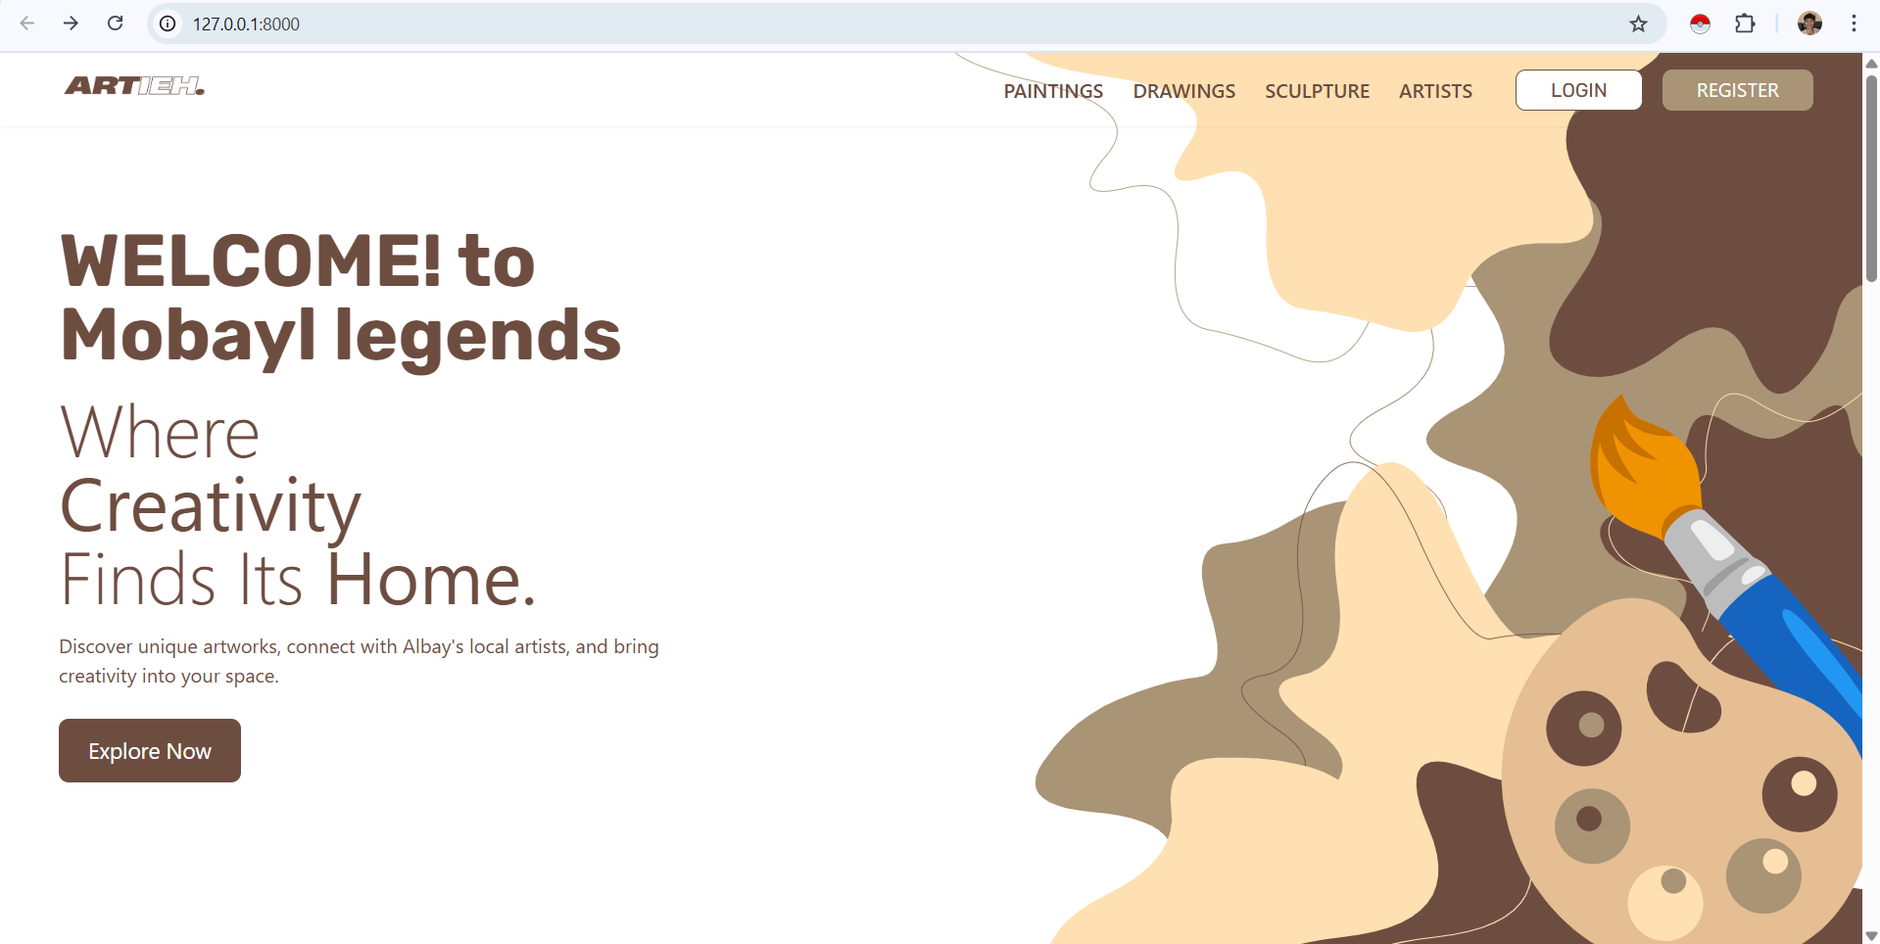
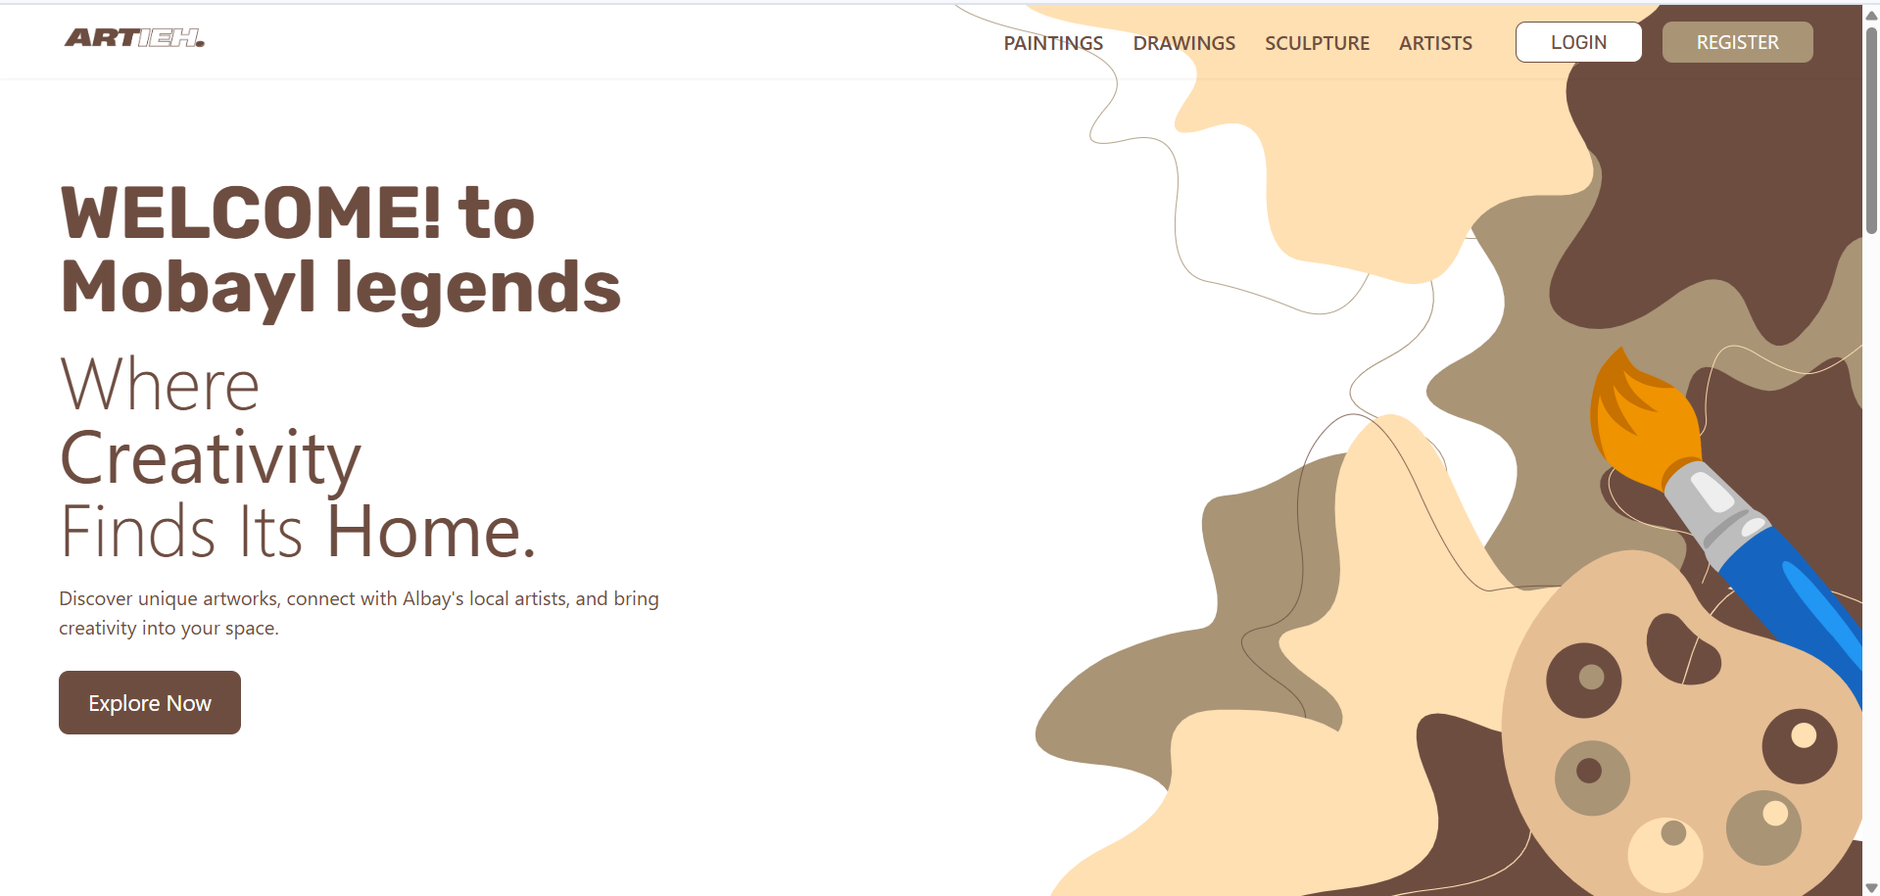
added the pictures

diff --git a/section/projects.html b/section/projects.html
@@ -65,22 +65,46 @@
         
         <!-- Main Display -->
         <div class="w-full aspect-video sm:aspect-auto h-full bg-neutral-100 dark:bg-neutral-900 border border-neutral-200 dark:border-neutral-800 overflow-hidden">
-            <img id="invta" src="../src/invta/Invta.jpg" class="w-full h-full object-cover transition-opacity duration-300" alt="Main Project View"/>
+            <img id="invta" src="../src/invta/Invta.jpg" class="w-full h-full object-contain transition-opacity duration-300" alt="Main Project View"/>
         </div>
 
         <!-- Thumbnails -->
         <div class="flex sm:flex-col gap-4 overflow-x-auto sm:overflow-y-auto h-full pb-2 sm:pb-0 pr-1 [&::-webkit-scrollbar]:hidden [-ms-overflow-style:none] [scrollbar-width:none]">
 
             <button onclick="document.getElementById('invta').src='../src/invta/Invta.jpg'" class="shrink-0 w-24 sm:w-full aspect-video border border-neutral-200 dark:border-neutral-800 hover:opacity-70 transition-opacity focus-visible:outline focus-visible:outline-2 focus-visible:outline-offset-2 focus-visible:outline-neutral-900 dark:focus-visible:outline-neutral-100 overflow-hidden">
-            <img src="../src/invta/Invta.jpg" class="w-full h-full object-cover" alt="Thumbnail 1"/>
+            <img src="../src/invta/Invta.jpg" class="w-full h-full object-contain" alt="Thumbnail 1"/>
             </button>
 
-            <button onclick="document.getElementById('invta').src='../src/invta/Invta.jpg'" class="shrink-0 w-24 sm:w-full aspect-video border border-neutral-200 dark:border-neutral-800 hover:opacity-70 transition-opacity focus-visible:outline focus-visible:outline-2 focus-visible:outline-offset-2 focus-visible:outline-neutral-900 dark:focus-visible:outline-neutral-100 overflow-hidden">
-            <img src="../src/invta/Invta.jpg" class="w-full h-full object-cover" alt="Thumbnail 2"/>
+            <button onclick="document.getElementById('invta').src='../src/invta/m1.png'" class="shrink-0 w-24 sm:w-full aspect-video border border-neutral-200 dark:border-neutral-800 hover:opacity-70 transition-opacity focus-visible:outline focus-visible:outline-2 focus-visible:outline-offset-2 focus-visible:outline-neutral-900 dark:focus-visible:outline-neutral-100 overflow-hidden">
+            <img src="../src/invta/m1.png" class="w-full h-full object-contain" alt="Thumbnail 2"/>
             </button>
 
-            <button onclick="document.getElementById('invta').src='../src/invta/Invta.jpg'" class="shrink-0 w-24 sm:w-full aspect-video border border-neutral-200 dark:border-neutral-800 hover:opacity-70 transition-opacity focus-visible:outline focus-visible:outline-2 focus-visible:outline-offset-2 focus-visible:outline-neutral-900 dark:focus-visible:outline-neutral-100 overflow-hidden">
-            <img src="../src/invta/Invta.jpg" class="w-full h-full object-cover" alt="Thumbnail 3"/>
+            <button onclick="document.getElementById('invta').src='../src/invta/m2.png'" class="shrink-0 w-24 sm:w-full aspect-video border border-neutral-200 dark:border-neutral-800 hover:opacity-70 transition-opacity focus-visible:outline focus-visible:outline-2 focus-visible:outline-offset-2 focus-visible:outline-neutral-900 dark:focus-visible:outline-neutral-100 overflow-hidden">
+            <img src="../src/invta/m2.png" class="w-full h-full object-contain" alt="Thumbnail 3"/>
+            </button>
+
+            <button onclick="document.getElementById('invta').src='../src/invta/m3.png'" class="shrink-0 w-24 sm:w-full aspect-video border border-neutral-200 dark:border-neutral-800 hover:opacity-70 transition-opacity focus-visible:outline focus-visible:outline-2 focus-visible:outline-offset-2 focus-visible:outline-neutral-900 dark:focus-visible:outline-neutral-100 overflow-hidden">
+            <img src="../src/invta/m3.png" class="w-full h-full object-contain" alt="Thumbnail 3"/>
+            </button>
+
+            <button onclick="document.getElementById('invta').src='../src/invta/m4.png'" class="shrink-0 w-24 sm:w-full aspect-video border border-neutral-200 dark:border-neutral-800 hover:opacity-70 transition-opacity focus-visible:outline focus-visible:outline-2 focus-visible:outline-offset-2 focus-visible:outline-neutral-900 dark:focus-visible:outline-neutral-100 overflow-hidden">
+            <img src="../src/invta/m4.png" class="w-full h-full object-contain" alt="Thumbnail 3"/>
+            </button>
+
+            <button onclick="document.getElementById('invta').src='../src/invta/w1.png'" class="shrink-0 w-24 sm:w-full aspect-video border border-neutral-200 dark:border-neutral-800 hover:opacity-70 transition-opacity focus-visible:outline focus-visible:outline-2 focus-visible:outline-offset-2 focus-visible:outline-neutral-900 dark:focus-visible:outline-neutral-100 overflow-hidden">
+            <img src="../src/invta/w1.png" class="w-full h-full object-contain" alt="Thumbnail 3"/>
+            </button>
+
+            <button onclick="document.getElementById('invta').src='../src/invta/w2.png'" class="shrink-0 w-24 sm:w-full aspect-video border border-neutral-200 dark:border-neutral-800 hover:opacity-70 transition-opacity focus-visible:outline focus-visible:outline-2 focus-visible:outline-offset-2 focus-visible:outline-neutral-900 dark:focus-visible:outline-neutral-100 overflow-hidden">
+            <img src="../src/invta/w2.png" class="w-full h-full object-contain" alt="Thumbnail 3"/>
+            </button>
+
+            <button onclick="document.getElementById('invta').src='../src/invta/w3.png'" class="shrink-0 w-24 sm:w-full aspect-video border border-neutral-200 dark:border-neutral-800 hover:opacity-70 transition-opacity focus-visible:outline focus-visible:outline-2 focus-visible:outline-offset-2 focus-visible:outline-neutral-900 dark:focus-visible:outline-neutral-100 overflow-hidden">
+            <img src="../src/invta/w3.png" class="w-full h-full object-contain" alt="Thumbnail 3"/>
+            </button>
+            
+            <button onclick="document.getElementById('invta').src='../src/invta/w4.png'" class="shrink-0 w-24 sm:w-full aspect-video border border-neutral-200 dark:border-neutral-800 hover:opacity-70 transition-opacity focus-visible:outline focus-visible:outline-2 focus-visible:outline-offset-2 focus-visible:outline-neutral-900 dark:focus-visible:outline-neutral-100 overflow-hidden">
+            <img src="../src/invta/w4.png" class="w-full h-full object-contain" alt="Thumbnail 3"/>
             </button>
 
         </div>
@@ -120,22 +144,62 @@
         
             <!-- Main Display -->
             <div class="w-full aspect-video sm:aspect-auto h-full bg-neutral-100 dark:bg-neutral-900 border border-neutral-200 dark:border-neutral-800 overflow-hidden">
-                <img id="swisa" src="../src/swisa/Swisa.jpg" class="w-full h-full object-cover transition-opacity duration-300" alt="Main Project View"/>
+                <img id="swisa" src="../src/swisa/Swisa.jpg" class="w-full h-full object-contain transition-opacity duration-300" alt="Main Project View"/>
             </div>
 
             <!-- Thumbnails  -->
             <div class="flex sm:flex-col gap-4 overflow-x-auto sm:overflow-y-auto h-full pb-2 sm:pb-0 pr-1 [&::-webkit-scrollbar]:hidden [-ms-overflow-style:none] [scrollbar-width:none]">
-                
-                <button onclick="document.getElementById('swisa').src='../src/invta/Invta.jpg'" class="shrink-0 w-24 sm:w-full aspect-video border border-neutral-200 dark:border-neutral-800 hover:opacity-70 transition-opacity focus-visible:outline focus-visible:outline-2 focus-visible:outline-offset-2 focus-visible:outline-neutral-900 dark:focus-visible:outline-neutral-100 overflow-hidden">
-                <img src="../src/swisa/Swisa.jpg" class="w-full h-full object-cover" alt="Thumbnail 1"/>
-                </button>
-                
-                <button onclick="document.getElementById('swisa').src='../src/invta/Invta.jpg'" class="shrink-0 w-24 sm:w-full aspect-video border border-neutral-200 dark:border-neutral-800 hover:opacity-70 transition-opacity focus-visible:outline focus-visible:outline-2 focus-visible:outline-offset-2 focus-visible:outline-neutral-900 dark:focus-visible:outline-neutral-100 overflow-hidden">
-                <img src="../src/swisa/Swisa.jpg" class="w-full h-full object-cover" alt="Thumbnail 2"/>
+                <button onclick="document.getElementById('swisa').src='../src/swisa/Swisa.jpg'" class="shrink-0 w-24 sm:w-full aspect-video border border-neutral-200 dark:border-neutral-800 hover:opacity-70 transition-opacity focus-visible:outline focus-visible:outline-2 focus-visible:outline-offset-2 focus-visible:outline-neutral-900 dark:focus-visible:outline-neutral-100 overflow-hidden">
+                <img src="../src/swisa/Swisa.jpg" class="w-full h-full object-contain" alt="Thumbnail 1"/>
                 </button>
 
-                <button onclick="document.getElementById('swisa').src='../src/invta/Invta.jpg'" class="shrink-0 w-24 sm:w-full aspect-video border border-neutral-200 dark:border-neutral-800 hover:opacity-70 transition-opacity focus-visible:outline focus-visible:outline-2 focus-visible:outline-offset-2 focus-visible:outline-neutral-900 dark:focus-visible:outline-neutral-100 overflow-hidden">
-                <img src="../src/swisa/Swisa.jpg" class="w-full h-full object-cover" alt="Thumbnail 3"/>
+              <!-- mobile pics -->
+                <button onclick="document.getElementById('swisa').src='../src/swisa/m1.png'" class="shrink-0 w-24 sm:w-full aspect-video border border-neutral-200 dark:border-neutral-800 hover:opacity-70 transition-opacity focus-visible:outline focus-visible:outline-2 focus-visible:outline-offset-2 focus-visible:outline-neutral-900 dark:focus-visible:outline-neutral-100 overflow-hidden">
+                <img src="../src/swisa/m1.png" class="w-full h-full object-contain" alt="Thumbnail 1"/>
+                </button>
+                
+                <button onclick="document.getElementById('swisa').src='../src/swisa/m2.jpg'" class="shrink-0 w-24 sm:w-full aspect-video border border-neutral-200 dark:border-neutral-800 hover:opacity-70 transition-opacity focus-visible:outline focus-visible:outline-2 focus-visible:outline-offset-2 focus-visible:outline-neutral-900 dark:focus-visible:outline-neutral-100 overflow-hidden">
+                <img src="../src/swisa/m2.jpg" class="w-full h-full object-contain" alt="Thumbnail 2"/>
+                </button>
+
+                <button onclick="document.getElementById('swisa').src='../src/swisa/m3.jpg'" class="shrink-0 w-24 sm:w-full aspect-video border border-neutral-200 dark:border-neutral-800 hover:opacity-70 transition-opacity focus-visible:outline focus-visible:outline-2 focus-visible:outline-offset-2 focus-visible:outline-neutral-900 dark:focus-visible:outline-neutral-100 overflow-hidden">
+                <img src="../src/swisa/m3.jpg" class="w-full h-full object-contain" alt="Thumbnail 3"/>
+                </button>
+                
+                <button onclick="document.getElementById('swisa').src='../src/swisa/m4.jpg'" class="shrink-0 w-24 sm:w-full aspect-video border border-neutral-200 dark:border-neutral-800 hover:opacity-70 transition-opacity focus-visible:outline focus-visible:outline-2 focus-visible:outline-offset-2 focus-visible:outline-neutral-900 dark:focus-visible:outline-neutral-100 overflow-hidden">
+                <img src="../src/swisa/m4.jpg" class="w-full h-full object-contain" alt="Thumbnail 4"/>
+                </button>
+
+                <button onclick="document.getElementById('swisa').src='../src/swisa/m5.png'" class="shrink-0 w-24 sm:w-full aspect-video border border-neutral-200 dark:border-neutral-800 hover:opacity-70 transition-opacity focus-visible:outline focus-visible:outline-2 focus-visible:outline-offset-2 focus-visible:outline-neutral-900 dark:focus-visible:outline-neutral-100 overflow-hidden">
+                <img src="../src/swisa/m5.png" class="w-full h-full object-contain" alt="Thumbnail 4"/>
+                </button>
+                <!-- web pics -->
+                <button onclick="document.getElementById('swisa').src='../src/swisa/w1.png'" class="shrink-0 w-24 sm:w-full aspect-video border border-neutral-200 dark:border-neutral-800 hover:opacity-70 transition-opacity focus-visible:outline focus-visible:outline-2 focus-visible:outline-offset-2 focus-visible:outline-neutral-900 dark:focus-visible:outline-neutral-100 overflow-hidden">
+                <img src="../src/swisa/w1.png" class="w-full h-full object-contain" alt="Thumbnail 4"/>
+                </button>
+
+                <button onclick="document.getElementById('swisa').src='../src/swisa/w2.png'" class="shrink-0 w-24 sm:w-full aspect-video border border-neutral-200 dark:border-neutral-800 hover:opacity-70 transition-opacity focus-visible:outline focus-visible:outline-2 focus-visible:outline-offset-2 focus-visible:outline-neutral-900 dark:focus-visible:outline-neutral-100 overflow-hidden">
+                <img src="../src/swisa/w2.png" class="w-full h-full object-contain" alt="Thumbnail 4"/>
+                </button>
+
+                <button onclick="document.getElementById('swisa').src='../src/swisa/w3.png'" class="shrink-0 w-24 sm:w-full aspect-video border border-neutral-200 dark:border-neutral-800 hover:opacity-70 transition-opacity focus-visible:outline focus-visible:outline-2 focus-visible:outline-offset-2 focus-visible:outline-neutral-900 dark:focus-visible:outline-neutral-100 overflow-hidden">
+                <img src="../src/swisa/w3.png" class="w-full h-full object-contain" alt="Thumbnail 4"/>
+                </button>
+
+                <button onclick="document.getElementById('swisa').src='../src/swisa/w4.png'" class="shrink-0 w-24 sm:w-full aspect-video border border-neutral-200 dark:border-neutral-800 hover:opacity-70 transition-opacity focus-visible:outline focus-visible:outline-2 focus-visible:outline-offset-2 focus-visible:outline-neutral-900 dark:focus-visible:outline-neutral-100 overflow-hidden">
+                <img src="../src/swisa/w4.png" class="w-full h-full object-contain" alt="Thumbnail 4"/>
+                </button>
+
+                <button onclick="document.getElementById('swisa').src='../src/swisa/w5.png'" class="shrink-0 w-24 sm:w-full aspect-video border border-neutral-200 dark:border-neutral-800 hover:opacity-70 transition-opacity focus-visible:outline focus-visible:outline-2 focus-visible:outline-offset-2 focus-visible:outline-neutral-900 dark:focus-visible:outline-neutral-100 overflow-hidden">
+                <img src="../src/swisa/w5.png" class="w-full h-full object-contain" alt="Thumbnail 4"/>
+                </button>
+
+                <button onclick="document.getElementById('swisa').src='../src/swisa/w6.png'" class="shrink-0 w-24 sm:w-full aspect-video border border-neutral-200 dark:border-neutral-800 hover:opacity-70 transition-opacity focus-visible:outline focus-visible:outline-2 focus-visible:outline-offset-2 focus-visible:outline-neutral-900 dark:focus-visible:outline-neutral-100 overflow-hidden">
+                <img src="../src/swisa/w6.png" class="w-full h-full object-contain" alt="Thumbnail 4"/>
+                </button>
+
+                <button onclick="document.getElementById('swisa').src='../src/swisa/w7.png'" class="shrink-0 w-24 sm:w-full aspect-video border border-neutral-200 dark:border-neutral-800 hover:opacity-70 transition-opacity focus-visible:outline focus-visible:outline-2 focus-visible:outline-offset-2 focus-visible:outline-neutral-900 dark:focus-visible:outline-neutral-100 overflow-hidden">
+                <img src="../src/swisa/w7.png" class="w-full h-full object-contain" alt="Thumbnail 4"/>
                 </button>
 
             </div>
@@ -175,18 +239,26 @@
         
             <!-- Main Display -->
             <div class="w-full aspect-video sm:aspect-auto h-full bg-neutral-100 dark:bg-neutral-900 border border-neutral-200 dark:border-neutral-800 overflow-hidden">
-                <img id="artieh" src="../src/artieh/1.png" class="w-full h-full object-cover transition-opacity duration-300" alt="Main Project View"/>
+                <img id="artieh" src="../src/artieh/2.png" class="w-full h-full object-contain transition-opacity duration-300" alt="Main Project View"/>
             </div>
 
             <!-- Thumbnails -->
             <div class="flex sm:flex-col gap-4 overflow-x-auto sm:overflow-y-auto h-full pb-2 sm:pb-0 pr-1 [&::-webkit-scrollbar]:hidden [-ms-overflow-style:none] [scrollbar-width:none]">
 
-                <button onclick="document.getElementById('artieh').src='../src/artieh/1.png'" class="shrink-0 w-24 sm:w-full aspect-video border border-neutral-200 dark:border-neutral-800 hover:opacity-70 transition-opacity focus-visible:outline focus-visible:outline-2 focus-visible:outline-offset-2 focus-visible:outline-neutral-900 dark:focus-visible:outline-neutral-100 overflow-hidden">
-                <img src="../src/artieh/1.png" class="w-full h-full object-cover" alt="Thumbnail 1"/>
+                <button onclick="document.getElementById('artieh').src='../src/artieh/2.png'" class="shrink-0 w-24 sm:w-full aspect-video border border-neutral-200 dark:border-neutral-800 hover:opacity-70 transition-opacity focus-visible:outline focus-visible:outline-2 focus-visible:outline-offset-2 focus-visible:outline-neutral-900 dark:focus-visible:outline-neutral-100 overflow-hidden">
+                <img src="../src/artieh/2.png" class="w-full h-full object-contain" alt="Thumbnail 2"/>
                 </button>
 
                 <button onclick="document.getElementById('artieh').src='../src/artieh/3.png'" class="shrink-0 w-24 sm:w-full aspect-video border border-neutral-200 dark:border-neutral-800 hover:opacity-70 transition-opacity focus-visible:outline focus-visible:outline-2 focus-visible:outline-offset-2 focus-visible:outline-neutral-900 dark:focus-visible:outline-neutral-100 overflow-hidden">
-                <img src="../src/artieh/3.png" class="w-full h-full object-cover" alt="Thumbnail 3"/>
+                <img src="../src/artieh/3.png" class="w-full h-full object-contain" alt="Thumbnail 3"/>
+                </button>
+
+                <button onclick="document.getElementById('artieh').src='../src/artieh/4.png'" class="shrink-0 w-24 sm:w-full aspect-video border border-neutral-200 dark:border-neutral-800 hover:opacity-70 transition-opacity focus-visible:outline focus-visible:outline-2 focus-visible:outline-offset-2 focus-visible:outline-neutral-900 dark:focus-visible:outline-neutral-100 overflow-hidden">
+                <img src="../src/artieh/4.png" class="w-full h-full object-contain" alt="Thumbnail 4"/>
+                </button>
+                
+                <button onclick="document.getElementById('artieh').src='../src/artieh/5.png'" class="shrink-0 w-24 sm:w-full aspect-video border border-neutral-200 dark:border-neutral-800 hover:opacity-70 transition-opacity focus-visible:outline focus-visible:outline-2 focus-visible:outline-offset-2 focus-visible:outline-neutral-900 dark:focus-visible:outline-neutral-100 overflow-hidden">
+                <img src="../src/artieh/5.png" class="w-full h-full object-contain" alt="Thumbnail 5"/>
                 </button>
                 
             </div>
@@ -209,7 +281,7 @@
             </div>
             <div>
               <p class="font-mono text-[11px] text-neutral-400 dark:text-neutral-600 uppercase mb-2">Stack</p>
-              <p class="text-sm">Laravel, PHP, TailwindCSS, JavaScript</p>
+              <p class="text-sm">Laravel, PHP, TailwindCSS, JavaScript, MySQL</p>
             </div>
           </div>
         </div>

diff --git a/index.html b/index.html
@@ -491,7 +491,7 @@
 
   <div class="grid md:grid-cols-2 gap-6" id="projectsGrid">
 
-    <a href="#" class="group group/card reveal-frame relative block p-7 border border-transparent hover:border-neutral-200 dark:hover:border-neutral-800 focus-within:border-neutral-200 dark:focus-within:border-neutral-800 focus-visible:outline focus-visible:outline-2 focus-visible:outline-offset-2 focus-visible:outline-neutral-900 dark:focus-visible:outline-neutral-100">
+    <a href="section/projects.html" class="group group/card reveal-frame relative block p-7 border border-transparent hover:border-neutral-200 dark:hover:border-neutral-800 focus-within:border-neutral-200 dark:focus-within:border-neutral-800 focus-visible:outline focus-visible:outline-2 focus-visible:outline-offset-2 focus-visible:outline-neutral-900 dark:focus-visible:outline-neutral-100">
       <span class="pointer-events-none absolute -top-px -left-px w-4 h-4 border-t border-l border-neutral-900 dark:border-neutral-100 opacity-0 -translate-x-2 -translate-y-2 group-hover/card:opacity-100 group-hover/card:translate-x-0 group-hover/card:translate-y-0 group-focus-within/card:opacity-100 group-focus-within/card:translate-x-0 group-focus-within/card:translate-y-0"></span>
       <span class="pointer-events-none absolute -top-px -right-px w-4 h-4 border-t border-r border-neutral-900 dark:border-neutral-100 opacity-0 translate-x-2 -translate-y-2 group-hover/card:opacity-100 group-hover/card:translate-x-0 group-hover/card:translate-y-0 group-focus-within/card:opacity-100 group-focus-within/card:translate-x-0 group-focus-within/card:translate-y-0"></span>
       <span class="pointer-events-none absolute -bottom-px -left-px w-4 h-4 border-b border-l border-neutral-900 dark:border-neutral-100 opacity-0 -translate-x-2 translate-y-2 group-hover/card:opacity-100 group-hover/card:translate-x-0 group-hover/card:translate-y-0 group-focus-within/card:opacity-100 group-focus-within/card:translate-x-0 group-focus-within/card:translate-y-0"></span>
@@ -507,7 +507,7 @@
       </div>
     </a>
 
-    <a href="#" class="group group/card reveal-frame relative block p-7 border border-transparent hover:border-neutral-200 dark:hover:border-neutral-800 focus-within:border-neutral-200 dark:focus-within:border-neutral-800 focus-visible:outline focus-visible:outline-2 focus-visible:outline-offset-2 focus-visible:outline-neutral-900 dark:focus-visible:outline-neutral-100">
+    <a href="section/projects.html" class="group group/card reveal-frame relative block p-7 border border-transparent hover:border-neutral-200 dark:hover:border-neutral-800 focus-within:border-neutral-200 dark:focus-within:border-neutral-800 focus-visible:outline focus-visible:outline-2 focus-visible:outline-offset-2 focus-visible:outline-neutral-900 dark:focus-visible:outline-neutral-100">
       <span class="pointer-events-none absolute -top-px -left-px w-4 h-4 border-t border-l border-neutral-900 dark:border-neutral-100 opacity-0 -translate-x-2 -translate-y-2 group-hover/card:opacity-100 group-hover/card:translate-x-0 group-hover/card:translate-y-0 group-focus-within/card:opacity-100 group-focus-within/card:translate-x-0 group-focus-within/card:translate-y-0"></span>
       <span class="pointer-events-none absolute -top-px -right-px w-4 h-4 border-t border-r border-neutral-900 dark:border-neutral-100 opacity-0 translate-x-2 -translate-y-2 group-hover/card:opacity-100 group-hover/card:translate-x-0 group-hover/card:translate-y-0 group-focus-within/card:opacity-100 group-focus-within/card:translate-x-0 group-focus-within/card:translate-y-0"></span>
       <span class="pointer-events-none absolute -bottom-px -left-px w-4 h-4 border-b border-l border-neutral-900 dark:border-neutral-100 opacity-0 -translate-x-2 translate-y-2 group-hover/card:opacity-100 group-hover/card:translate-x-0 group-hover/card:translate-y-0 group-focus-within/card:opacity-100 group-focus-within/card:translate-x-0 group-focus-within/card:translate-y-0"></span>
